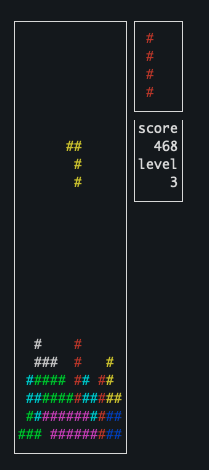
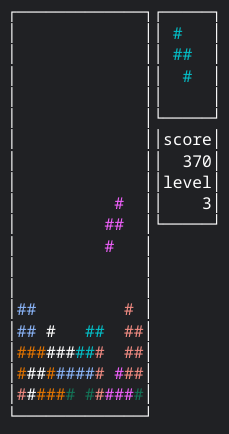
change tetris size

Changed region(s): [[0.0287, 0.0, 0.9761, 0.9885], [0.4593, 0.4493, 0.5455, 0.5991], [0.3158, 0.2995, 0.4019, 0.4194]]

diff --git a/tetris.py b/tetris.py
@@ -156,7 +156,7 @@ def main(stdscr):
         curses.init_pair(i+1, i, -1)
     # random colors
     stdscr.clear()
-    sh = 30
+    sh = 25
     sw = 20
     scr_sh, scr_sw = stdscr.getmaxyx()
     if scr_sh < sh or scr_sw < sw:

diff --git a/README.md b/README.md
@@ -54,7 +54,7 @@ Scoring is equal to amount of points you gathered.<br>
 If you quit or it is Game Over, your score will be written to *maze_runner_highscores.txt* file in the root folder of this repo.
 
 # Tetris
-![tetris](./img/tetris_screenshot.png)
+![tetris](./img/tetris_screenshot.png)<br>
 The well known classic game [Tetris](https://en.wikipedia.org/wiki/Tetris).<br>
 
 ## How to run
